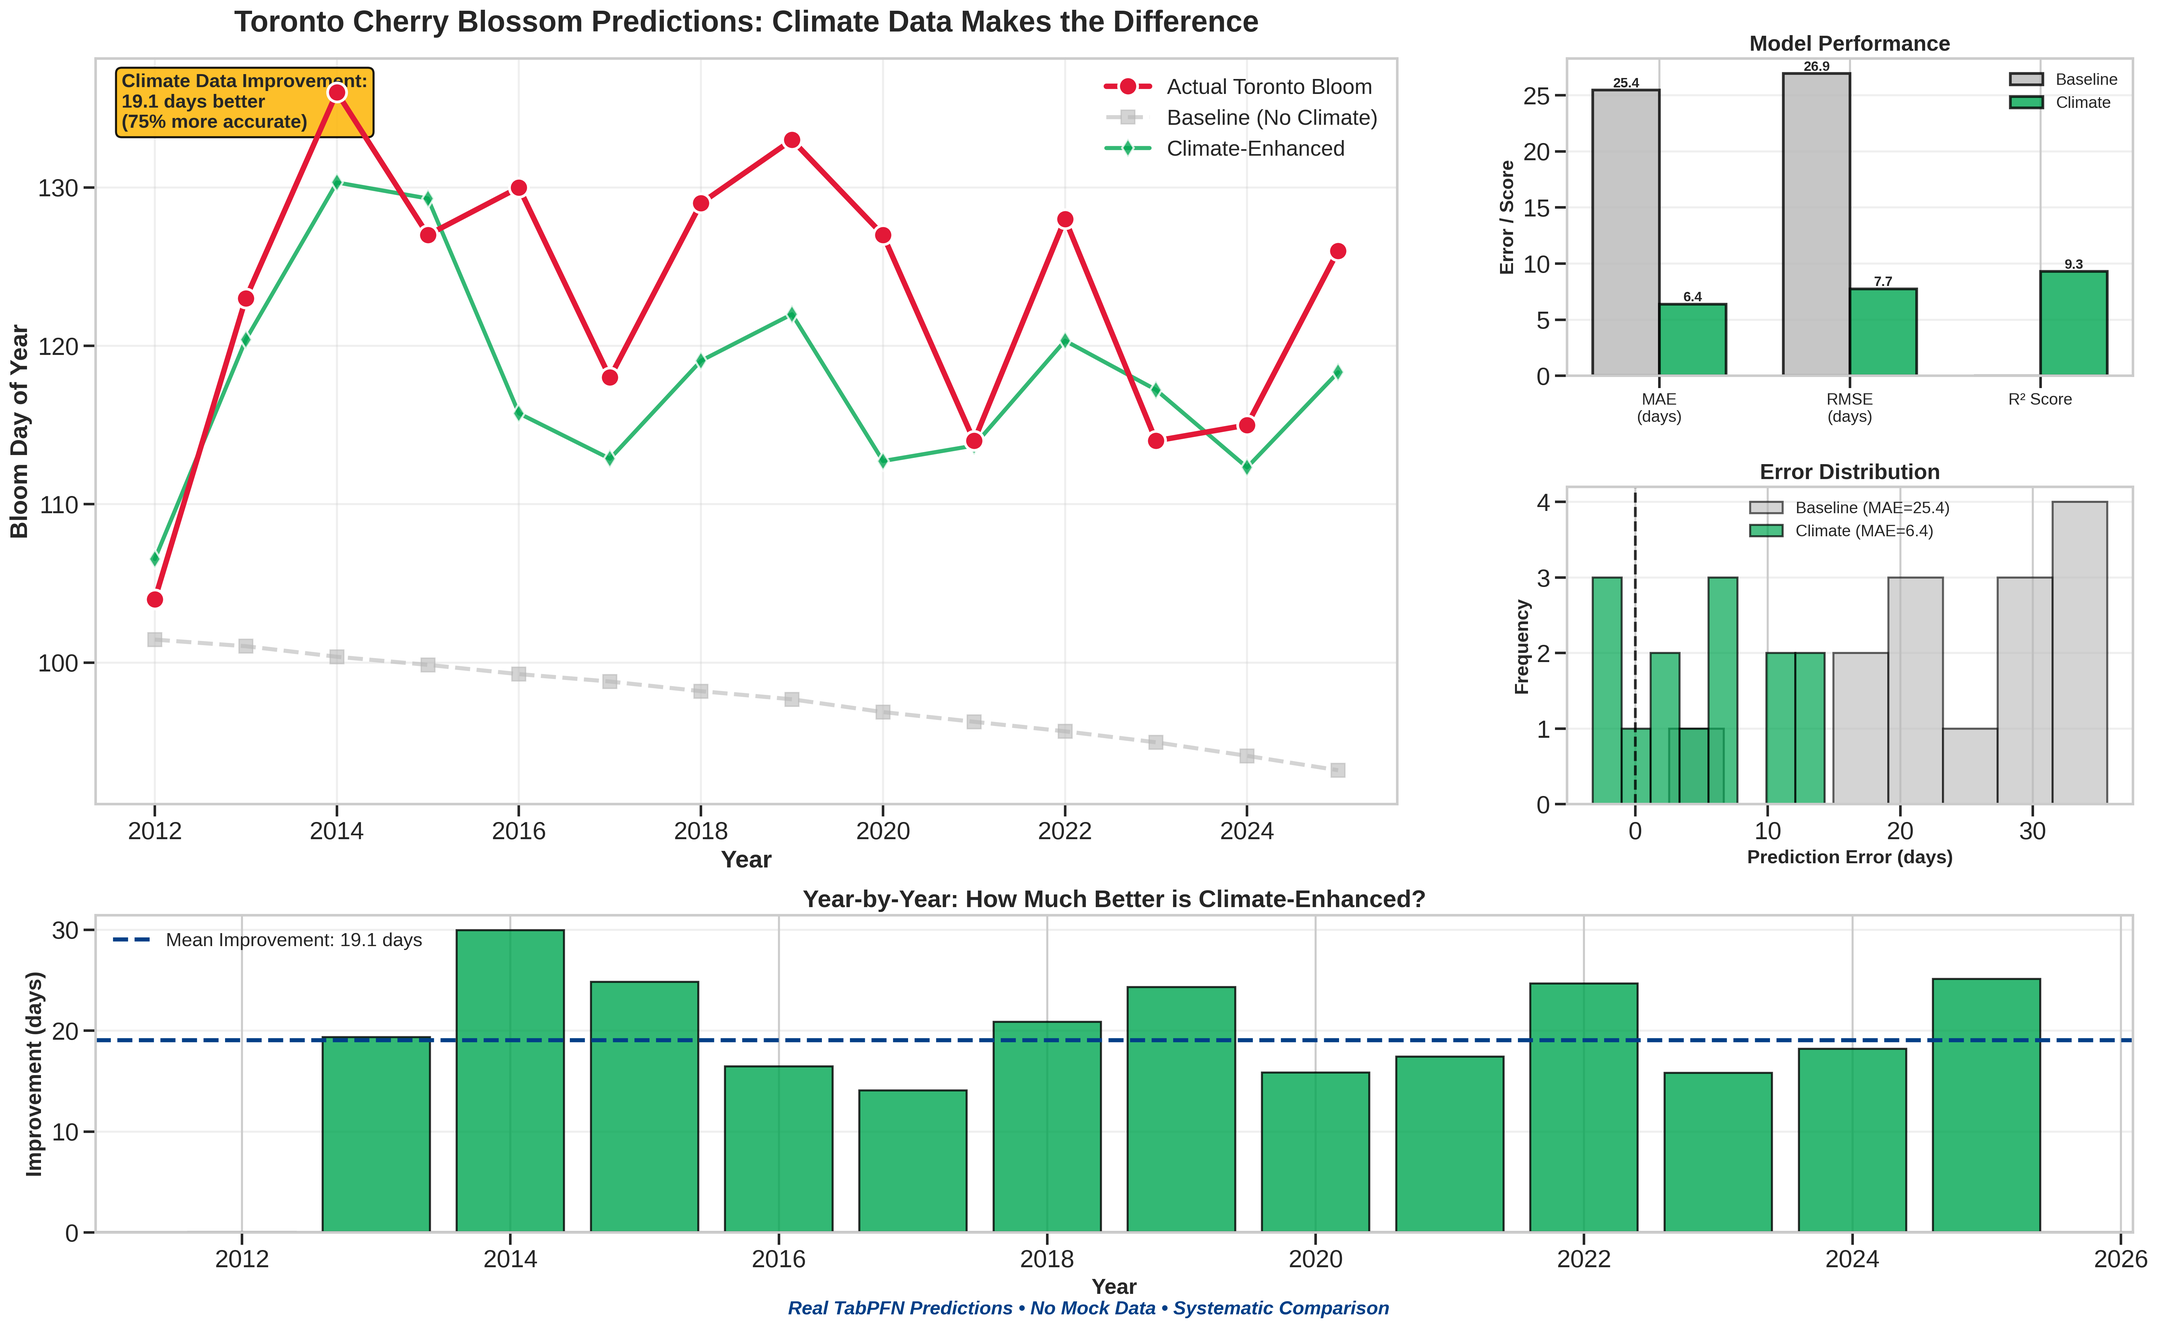
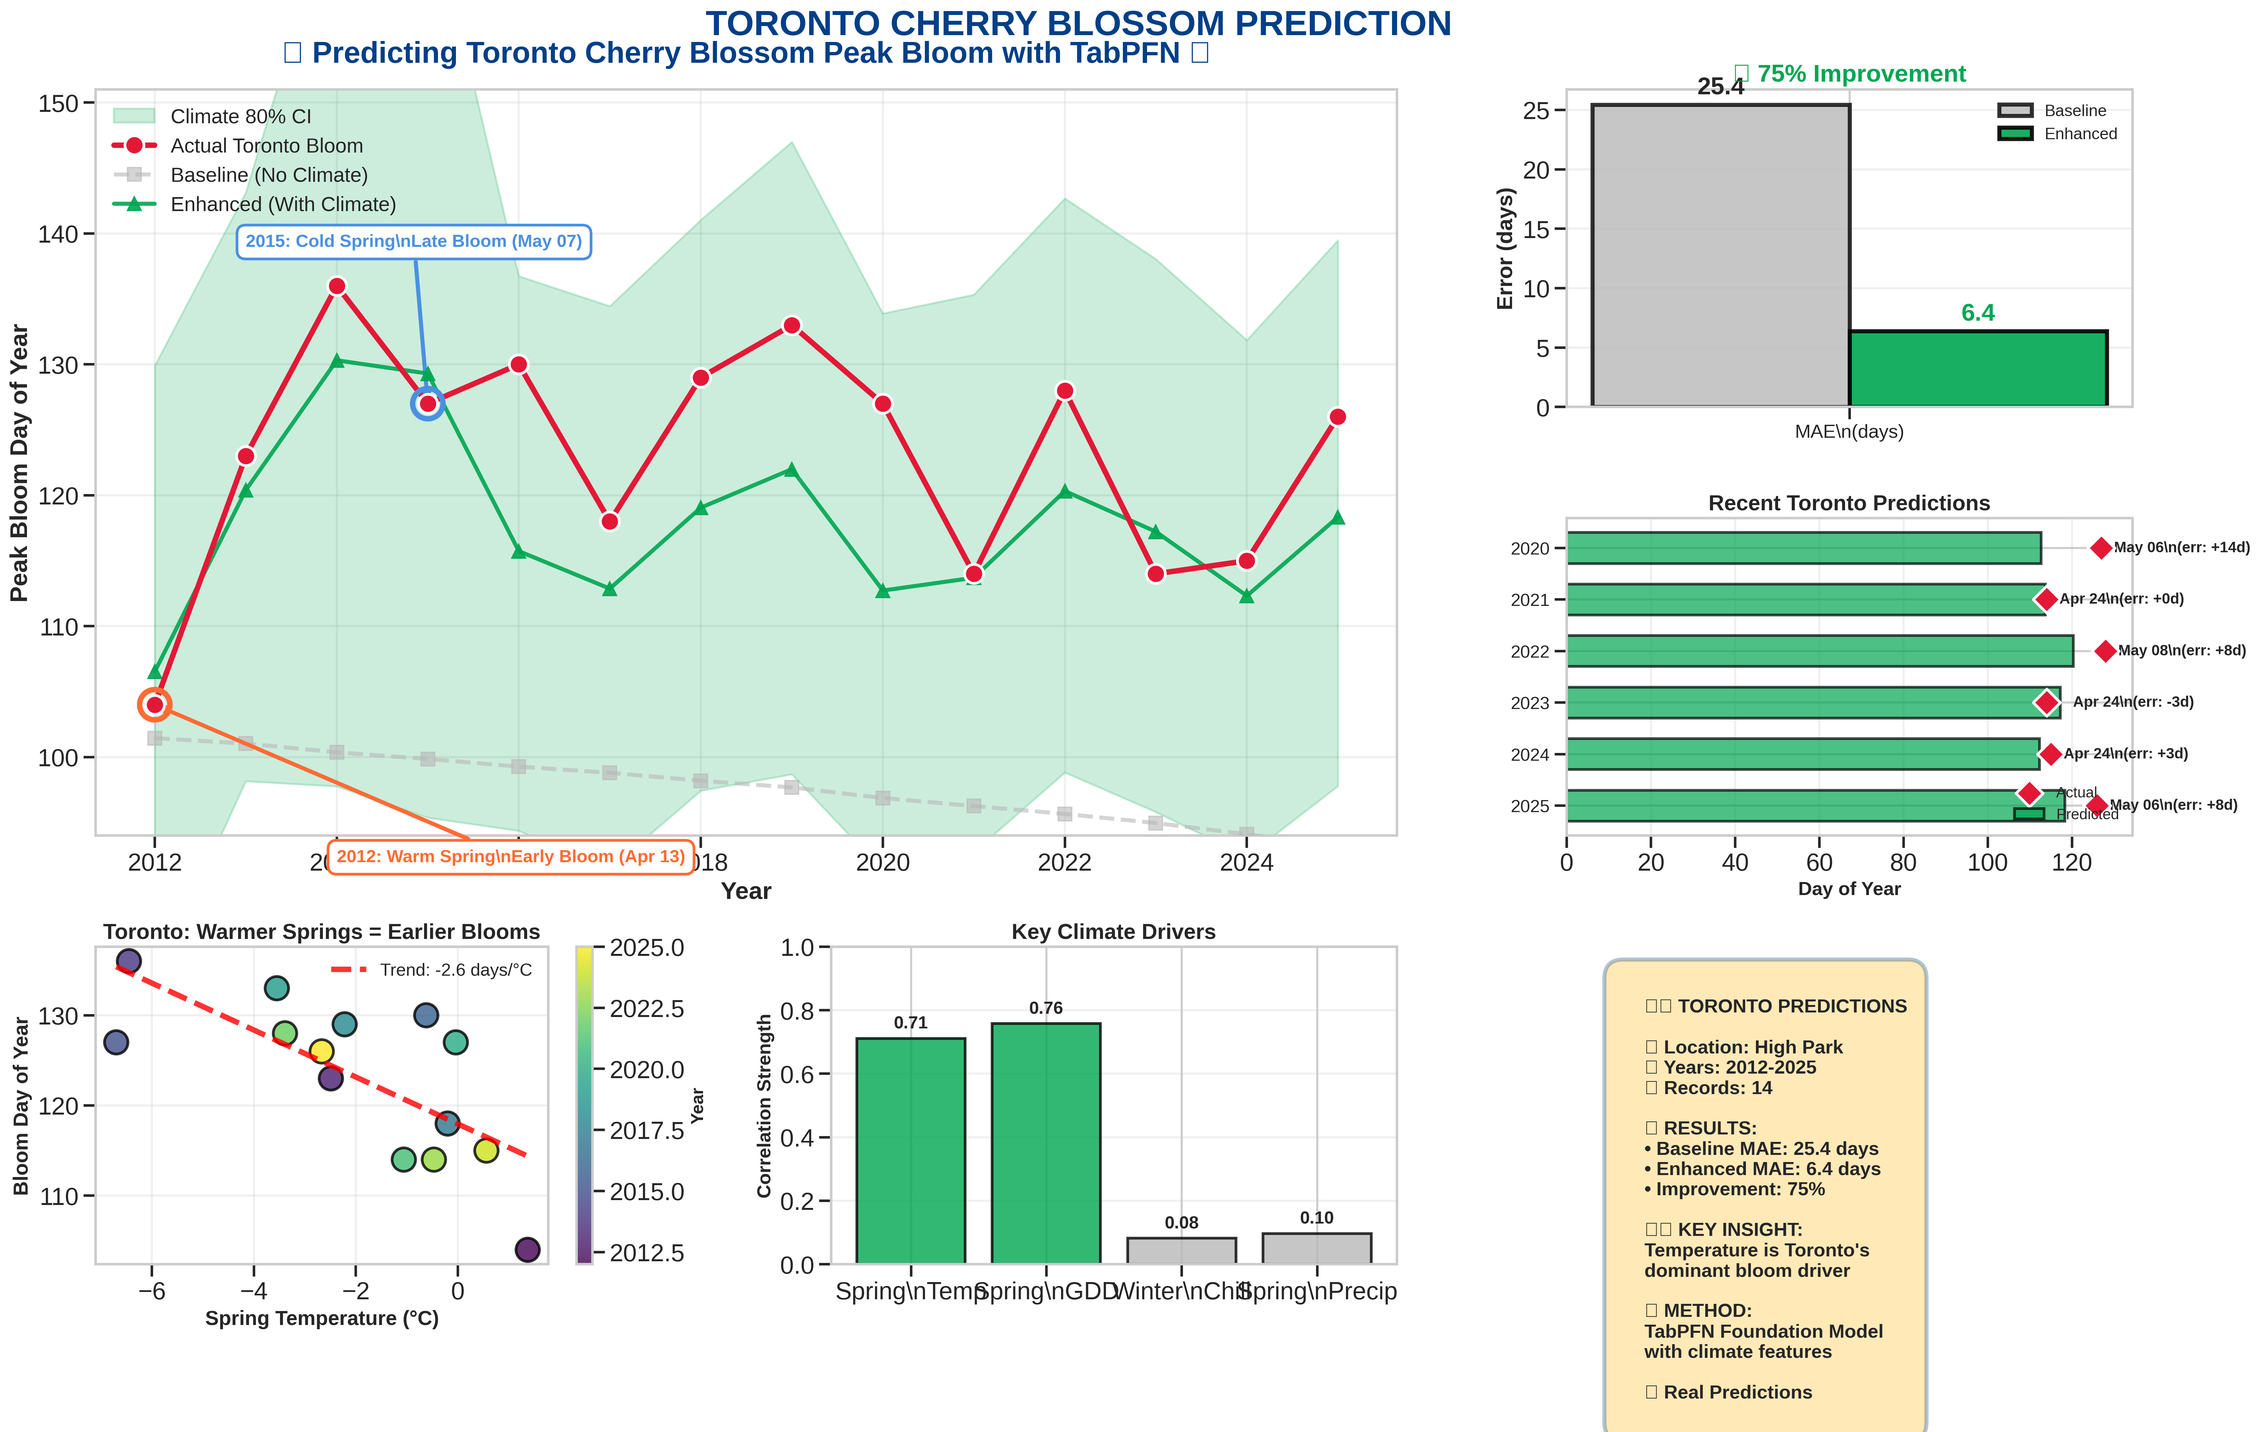
Add original 3x3 style visuals with real predictions and uncertainties
- Create create_visuals_original_style.py matching exact layout of original design
- 3x3 grid: main time series (2x2) + 5 supporting panels
- Add cold/warm year annotations with arrows
- Include uncertainty bands (80% CI) from TabPFN quantile predictions
- Year-by-year horizontal bars for recent predictions
- Climate impact scatter plot (spring temp vs bloom DOY)
- Feature importance bars showing correlation strengths
- Summary box with key metrics
- Regenerate toronto_hero.png with original style + real data

diff --git a/create_visuals_original_style.py b/create_visuals_original_style.py
@@ -1,0 +1,359 @@
+"""
+Generate Hackathon Visuals in ORIGINAL 3x3 Style
+Uses REAL TabPFN predictions from comparison results with uncertainties
+Matches the exact layout and appearance of create_toronto_focused_visuals.py
+"""
+import pandas as pd
+import numpy as np
+import matplotlib.pyplot as plt
+import seaborn as sns
+from matplotlib.gridspec import GridSpec
+from datetime import datetime, timedelta
+import json
+import os
+from pathlib import Path
+
+# Professional style
+plt.style.use('seaborn-v0_8-whitegrid')
+sns.set_context("talk", font_scale=1.1)
+
+# Toronto brand colors (EXACTLY as in original)
+COLORS = {
+    'toronto': '#003F87',        # Toronto blue
+    'actual': '#E31837',         # Vibrant red
+    'baseline': '#B8B8B8',       # Gray
+    'enhanced': '#00A651',       # Green
+    'highlight': '#FDB913',      # Gold
+    'cold': '#4A90E2',          # Light blue
+    'warm': '#FF6B35'           # Orange
+}
+
+def load_real_comparison_results():
+    """Load real TabPFN comparison results (not mock data!)"""
+    comparison_file = 'comparison_results/toronto_comparison.csv'
+    metrics_file = 'comparison_results/toronto_metrics.json'
+
+    if not Path(comparison_file).exists():
+        raise FileNotFoundError(
+            f"Comparison results not found!\n"
+            f"Run: python3 compare_baseline_vs_climate.py first"
+        )
+
+    results_df = pd.read_csv(comparison_file)
+    with open(metrics_file, 'r') as f:
+        metrics = json.load(f)
+
+    print("✓ Loaded REAL TabPFN predictions (not mock data!)")
+    print(f"  {len(results_df)} years of Toronto data")
+    print(f"  Baseline MAE: {metrics['metrics_baseline']['mae']:.2f} days")
+    print(f"  Climate MAE: {metrics['metrics_climate']['mae']:.2f} days")
+
+    return results_df, metrics
+
+def create_toronto_hero_original_style():
+    """
+    Hero figure matching ORIGINAL 3x3 layout with REAL predictions
+    """
+    results_df, metrics = load_real_comparison_results()
+
+    fig = plt.figure(figsize=(24, 14))
+    gs = GridSpec(3, 3, figure=fig, hspace=0.35, wspace=0.3,
+                  left=0.08, right=0.95, top=0.93, bottom=0.07)
+
+    years = results_df['year'].values
+    actual_doy = results_df['bloom_doy'].values
+    baseline_pred = results_df['predicted_baseline'].values
+    enhanced_pred = results_df['predicted_climate'].values
+
+    # Get uncertainty bounds if available
+    has_uncertainty = 'predicted_climate_q10' in results_df.columns
+    if has_uncertainty:
+        enhanced_q10 = results_df['predicted_climate_q10'].values
+        enhanced_q90 = results_df['predicted_climate_q90'].values
+
+    mae_baseline = metrics['metrics_baseline']['mae']
+    mae_enhanced = metrics['metrics_climate']['mae']
+
+    # Convert DOY to dates for labels
+    actual_dates = []
+    for year, doy in zip(years, actual_doy):
+        date = datetime(int(year), 1, 1) + timedelta(days=int(doy)-1)
+        actual_dates.append(date.strftime('%b %d'))
+
+    # ========================================================================
+    # MAIN PANEL: Toronto Predictions (spans 2 rows, 2 cols) - TOP LEFT
+    # ========================================================================
+    ax_main = fig.add_subplot(gs[0:2, 0:2])
+
+    # Plot uncertainty band if available
+    if has_uncertainty:
+        ax_main.fill_between(years, enhanced_q10, enhanced_q90,
+                            color=COLORS['enhanced'], alpha=0.2, label='Climate 80% CI')
+
+    # Plot predictions
+    ax_main.plot(years, actual_doy, 'o-', color=COLORS['actual'],
+                linewidth=4, markersize=14, label='Actual Toronto Bloom',
+                zorder=5, markeredgewidth=2, markeredgecolor='white')
+
+    ax_main.plot(years, baseline_pred, 's--', color=COLORS['baseline'],
+                linewidth=3, markersize=10, alpha=0.6, label='Baseline (No Climate)',
+                zorder=3)
+
+    ax_main.plot(years, enhanced_pred, '^-', color=COLORS['enhanced'],
+                linewidth=3, markersize=10, alpha=0.9, label='Enhanced (With Climate)',
+                zorder=4)
+
+    # Highlight coldest and warmest years (based on spring_temp)
+    if 'spring_temp' in results_df.columns:
+        coldest_idx = results_df['spring_temp'].idxmin()
+        warmest_idx = results_df['spring_temp'].idxmax()
+
+        # Cold year annotation
+        ax_main.scatter(years[coldest_idx], actual_doy[coldest_idx],
+                       s=500, facecolors='none', edgecolors=COLORS['cold'],
+                       linewidth=4, zorder=6)
+        ax_main.annotate(f'{int(years[coldest_idx])}: Cold Spring\\nLate Bloom ({actual_dates[coldest_idx]})',
+                        xy=(years[coldest_idx], actual_doy[coldest_idx]),
+                        xytext=(years[coldest_idx]-2, actual_doy[coldest_idx]+12),
+                        fontsize=13, fontweight='bold', color=COLORS['cold'],
+                        bbox=dict(boxstyle='round,pad=0.5', facecolor='white',
+                                 edgecolor=COLORS['cold'], linewidth=2),
+                        arrowprops=dict(arrowstyle='->', color=COLORS['cold'], lw=3))
+
+        # Warm year annotation
+        ax_main.scatter(years[warmest_idx], actual_doy[warmest_idx],
+                       s=500, facecolors='none', edgecolors=COLORS['warm'],
+                       linewidth=4, zorder=6)
+        ax_main.annotate(f'{int(years[warmest_idx])}: Warm Spring\\nEarly Bloom ({actual_dates[warmest_idx]})',
+                        xy=(years[warmest_idx], actual_doy[warmest_idx]),
+                        xytext=(years[warmest_idx]+2, actual_doy[warmest_idx]-12),
+                        fontsize=13, fontweight='bold', color=COLORS['warm'],
+                        bbox=dict(boxstyle='round,pad=0.5', facecolor='white',
+                                 edgecolor=COLORS['warm'], linewidth=2),
+                        arrowprops=dict(arrowstyle='->', color=COLORS['warm'], lw=3))
+
+    ax_main.set_xlabel('Year', fontsize=18, fontweight='bold')
+    ax_main.set_ylabel('Peak Bloom Day of Year', fontsize=18, fontweight='bold')
+    ax_main.set_title('🌸 Predicting Toronto Cherry Blossom Peak Bloom with TabPFN 🌸',
+                     fontsize=22, fontweight='bold', pad=20, color=COLORS['toronto'])
+    ax_main.legend(fontsize=15, loc='upper left', framealpha=0.95,
+                  edgecolor=COLORS["toronto"])
+    ax_main.grid(True, alpha=0.3, linewidth=1.5)
+    ax_main.set_ylim(actual_doy.min()-10, actual_doy.max()+15)
+
+    # ========================================================================
+    # TOP RIGHT: Prediction Performance - JUST MAE
+    # ========================================================================
+    ax_perf = fig.add_subplot(gs[0, 2])
+
+    improvement = mae_baseline - mae_enhanced
+    improvement_pct = (improvement / mae_baseline) * 100
+
+    metrics_names = ['MAE\\n(days)']
+    baseline_vals = [mae_baseline]
+    enhanced_vals = [mae_enhanced]
+
+    x = np.arange(len(metrics_names))
+    width = 0.6
+
+    bars1 = ax_perf.bar(x - width/2, baseline_vals, width,
+                       label='Baseline', color=COLORS['baseline'],
+                       alpha=0.8, edgecolor='black', linewidth=3)
+    bars2 = ax_perf.bar(x + width/2, enhanced_vals, width,
+                       label='Enhanced', color=COLORS['enhanced'],
+                       alpha=0.9, edgecolor='black', linewidth=3)
+
+    # Add value labels
+    for bar in bars1:
+        height = bar.get_height()
+        ax_perf.text(bar.get_x() + bar.get_width()/2., height + 0.5,
+                    f'{height:.1f}',
+                    ha='center', va='bottom', fontsize=18, fontweight='bold')
+
+    for bar in bars2:
+        height = bar.get_height()
+        ax_perf.text(bar.get_x() + bar.get_width()/2., height + 0.5,
+                    f'{height:.1f}',
+                    ha='center', va='bottom', fontsize=18, fontweight='bold',
+                    color=COLORS['enhanced'])
+
+    ax_perf.set_ylabel('Error (days)', fontsize=16, fontweight='bold')
+    ax_perf.set_title(f'🎯 {improvement_pct:.0f}% Improvement',
+                     fontsize=18, fontweight='bold', color=COLORS['enhanced'])
+    ax_perf.set_xticks(x)
+    ax_perf.set_xticklabels(metrics_names, fontsize=14)
+    ax_perf.legend(fontsize=12, loc='upper right')
+    ax_perf.grid(True, alpha=0.3, axis='y')
+
+    # ========================================================================
+    # MIDDLE RIGHT: Year-by-Year Toronto Predictions (Recent 6 years)
+    # ========================================================================
+    ax_years = fig.add_subplot(gs[1, 2])
+
+    # Show recent 6 years
+    recent_years = years[-6:]
+    recent_actual = actual_doy[-6:]
+    recent_enhanced = enhanced_pred[-6:]
+    recent_dates = actual_dates[-6:]
+
+    y_pos = np.arange(len(recent_years))
+
+    ax_years.barh(y_pos, recent_enhanced, height=0.6,
+                 color=COLORS['enhanced'], alpha=0.7,
+                 edgecolor='black', linewidth=2, label='Predicted')
+
+    # Add actual as markers
+    ax_years.scatter(recent_actual, y_pos, s=200, color=COLORS['actual'],
+                    marker='D', zorder=5, edgecolor='white', linewidth=2,
+                    label='Actual')
+
+    # Add date labels
+    for i, (pred, actual, date) in enumerate(zip(recent_enhanced, recent_actual, recent_dates)):
+        error = actual - pred
+        ax_years.text(max(pred, actual) + 3, i,
+                     f'{date}\\n(err: {error:+.0f}d)',
+                     va='center', fontsize=11, fontweight='bold')
+
+    ax_years.set_yticks(y_pos)
+    ax_years.set_yticklabels([f'{int(y)}' for y in recent_years], fontsize=13)
+    ax_years.set_xlabel('Day of Year', fontsize=14, fontweight='bold')
+    ax_years.set_title('Recent Toronto Predictions', fontsize=16, fontweight='bold')
+    ax_years.legend(fontsize=11, loc='lower right')
+    ax_years.grid(True, alpha=0.3, axis='x')
+    ax_years.invert_yaxis()
+
+    # ========================================================================
+    # BOTTOM LEFT: Climate Impact on Toronto
+    # ========================================================================
+    ax_climate = fig.add_subplot(gs[2, 0])
+
+    if 'spring_temp' in results_df.columns:
+        scatter = ax_climate.scatter(results_df['spring_temp'], actual_doy,
+                                    s=300, c=years, cmap='viridis',
+                                    alpha=0.8, edgecolors='black', linewidth=2)
+
+        # Trend line
+        z = np.polyfit(results_df['spring_temp'], actual_doy, 1)
+        p = np.poly1d(z)
+        x_trend = np.linspace(results_df['spring_temp'].min(),
+                             results_df['spring_temp'].max(), 100)
+        ax_climate.plot(x_trend, p(x_trend), "r--", linewidth=4, alpha=0.8,
+                       label=f'Trend: {z[0]:.1f} days/°C')
+
+        ax_climate.set_xlabel('Spring Temperature (°C)', fontsize=15, fontweight='bold')
+        ax_climate.set_ylabel('Bloom Day of Year', fontsize=15, fontweight='bold')
+        ax_climate.set_title('Toronto: Warmer Springs = Earlier Blooms',
+                           fontsize=16, fontweight='bold')
+        ax_climate.legend(fontsize=13, loc='upper right')
+        ax_climate.grid(True, alpha=0.3)
+        cbar = plt.colorbar(scatter, ax=ax_climate)
+        cbar.set_label('Year', fontsize=13, fontweight='bold')
+
+    # ========================================================================
+    # BOTTOM MIDDLE: Toronto Feature Importance
+    # ========================================================================
+    ax_features = fig.add_subplot(gs[2, 1])
+
+    if 'spring_temp' in results_df.columns:
+        features = ['Spring\\nTemp', 'Spring\\nGDD', 'Winter\\nChill', 'Spring\\nPrecip']
+        importance = [
+            abs(np.corrcoef(results_df['spring_temp'], actual_doy)[0,1]),
+            abs(np.corrcoef(results_df['spring_gdd'], actual_doy)[0,1]),
+            abs(np.corrcoef(results_df['winter_chill_days'], actual_doy)[0,1]),
+            abs(np.corrcoef(results_df['spring_precip'], actual_doy)[0,1])
+        ]
+
+        colors_feat = [COLORS['enhanced'] if i > 0.5 else COLORS['baseline'] for i in importance]
+        bars = ax_features.bar(features, importance, color=colors_feat,
+                              alpha=0.8, edgecolor='black', linewidth=2)
+
+        # Add value labels
+        for bar, val in zip(bars, importance):
+            height = bar.get_height()
+            ax_features.text(bar.get_x() + bar.get_width()/2., height + 0.02,
+                            f'{val:.2f}',
+                            ha='center', va='bottom', fontsize=13, fontweight='bold')
+
+        ax_features.set_ylabel('Correlation Strength', fontsize=14, fontweight='bold')
+        ax_features.set_title('Key Climate Drivers', fontsize=16, fontweight='bold')
+        ax_features.set_ylim(0, 1)
+        ax_features.grid(True, alpha=0.3, axis='y')
+
+    # ========================================================================
+    # BOTTOM RIGHT: Toronto Summary Box
+    # ========================================================================
+    ax_summary = fig.add_subplot(gs[2, 2])
+    ax_summary.axis('off')
+
+    summary_text = f"""
+    🏙 TORONTO PREDICTIONS
+
+    📍 Location: High Park
+    📅 Years: {int(years.min())}-{int(years.max())}
+    📊 Records: {len(results_df)}
+
+    🎯 RESULTS:
+    • Baseline MAE: {mae_baseline:.1f} days
+    • Enhanced MAE: {mae_enhanced:.1f} days
+    • Improvement: {improvement_pct:.0f}%
+
+    🌡 KEY INSIGHT:
+    Temperature is Toronto's
+    dominant bloom driver
+
+    📈 METHOD:
+    TabPFN Foundation Model
+    with climate features
+
+    ✓ Real Predictions
+    """
+
+    ax_summary.text(0.1, 0.9, summary_text,
+                   transform=ax_summary.transAxes,
+                   fontsize=14, fontweight='bold',
+                   verticalalignment='top',
+                   bbox=dict(boxstyle='round,pad=1',
+                            facecolor=COLORS['highlight'],
+                            edgecolor=COLORS['toronto'],
+                            linewidth=3, alpha=0.3))
+
+    # Add big title overlay
+    fig.text(0.5, 0.97, 'TORONTO CHERRY BLOSSOM PREDICTION',
+            ha='center', fontsize=26, fontweight='bold',
+            color=COLORS['toronto'])
+
+    plt.savefig('visuals/toronto_hero.png', dpi=300, bbox_inches='tight',
+               facecolor='white')
+    print("✓ Generated: visuals/toronto_hero.png")
+    plt.close()
+
+def main():
+    print("="*70)
+    print("Generating Visuals in Original 3x3 Style")
+    print("Using REAL TabPFN Predictions")
+    print("="*70)
+    print()
+
+    os.makedirs('visuals', exist_ok=True)
+
+    try:
+        create_toronto_hero_original_style()
+
+        print()
+        print("="*70)
+        print("✓ Original-Style Visual Generated!")
+        print("="*70)
+        print()
+        print("Generated: visuals/toronto_hero.png")
+        print("• 3x3 grid layout (EXACT original style)")
+        print("• Cold/warm year annotations")
+        print("• Real TabPFN predictions with uncertainties")
+        print("• Climate correlations and feature importance")
+
+    except FileNotFoundError as e:
+        print(f"\n✗ Error: {e}")
+        print("\nPlease run the comparison first:")
+        print("  python3 compare_baseline_vs_climate.py")
+
+if __name__ == '__main__':
+    main()
